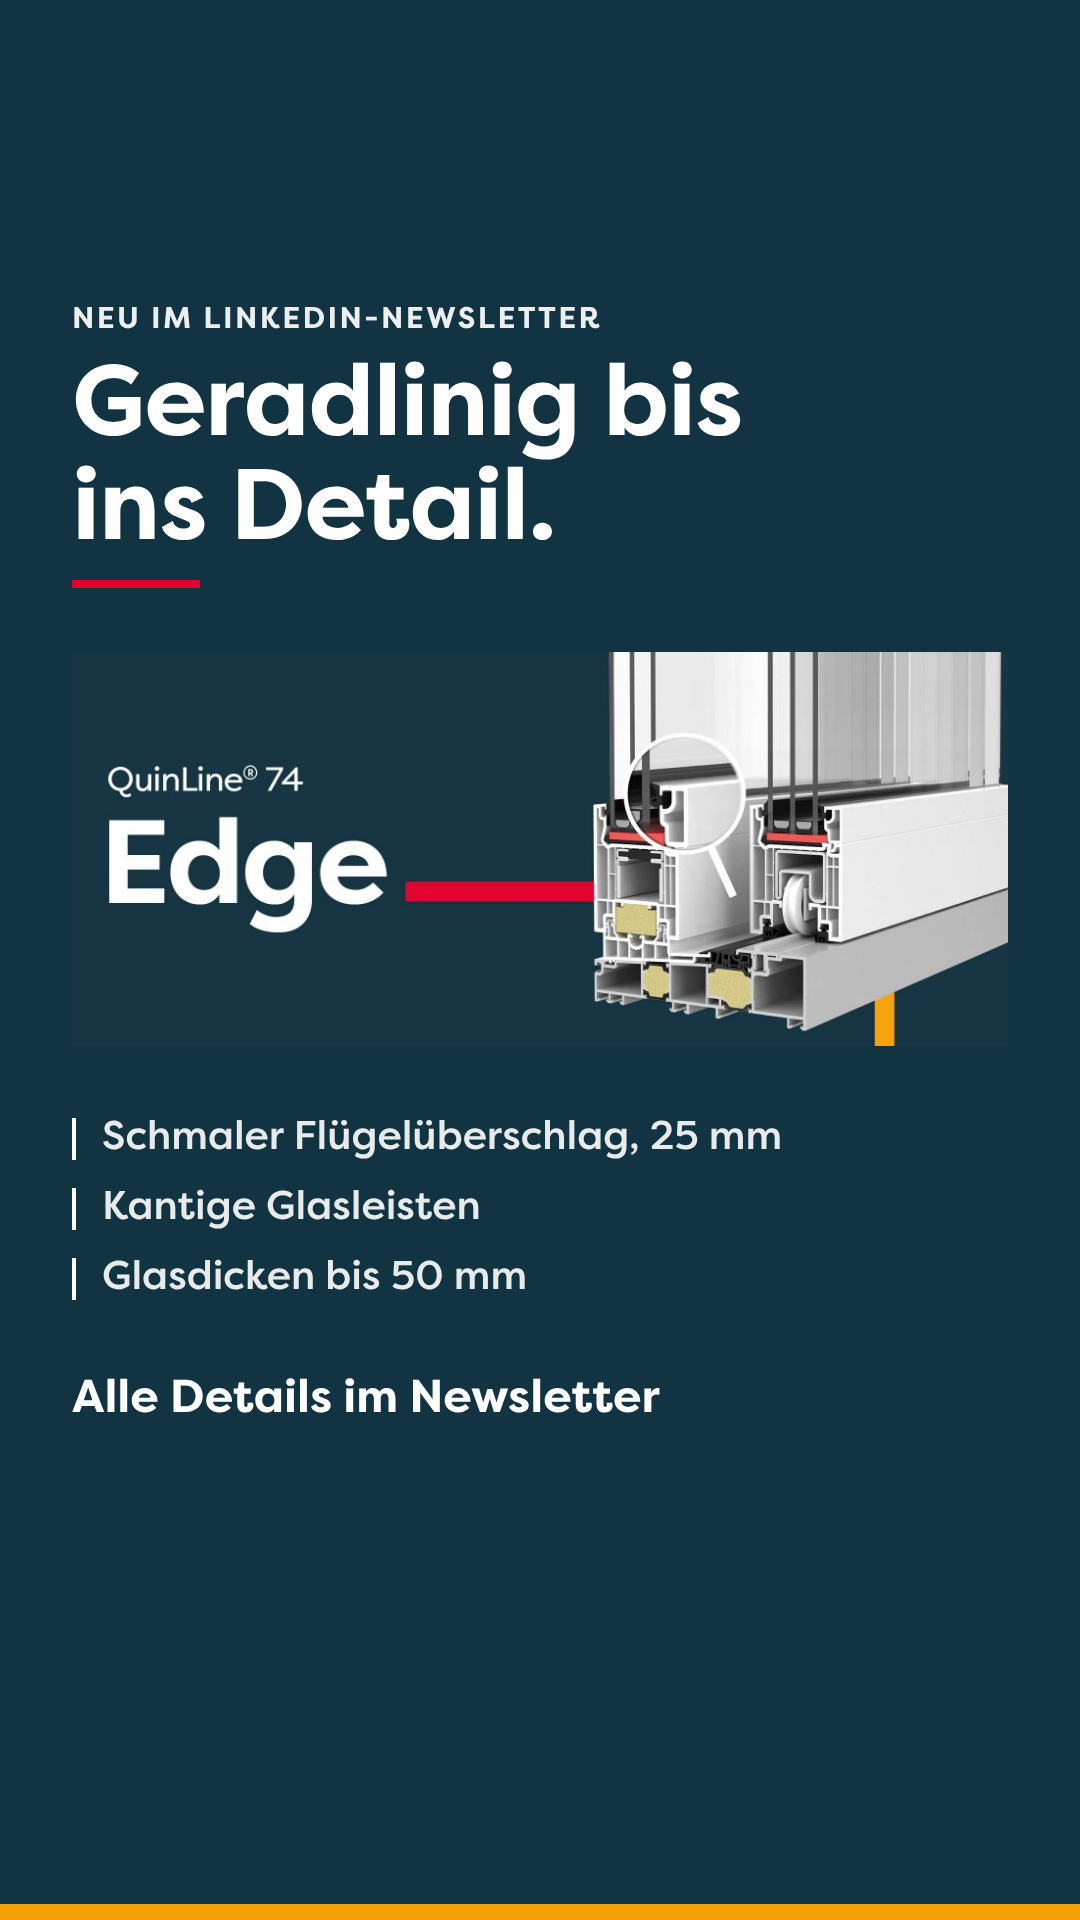
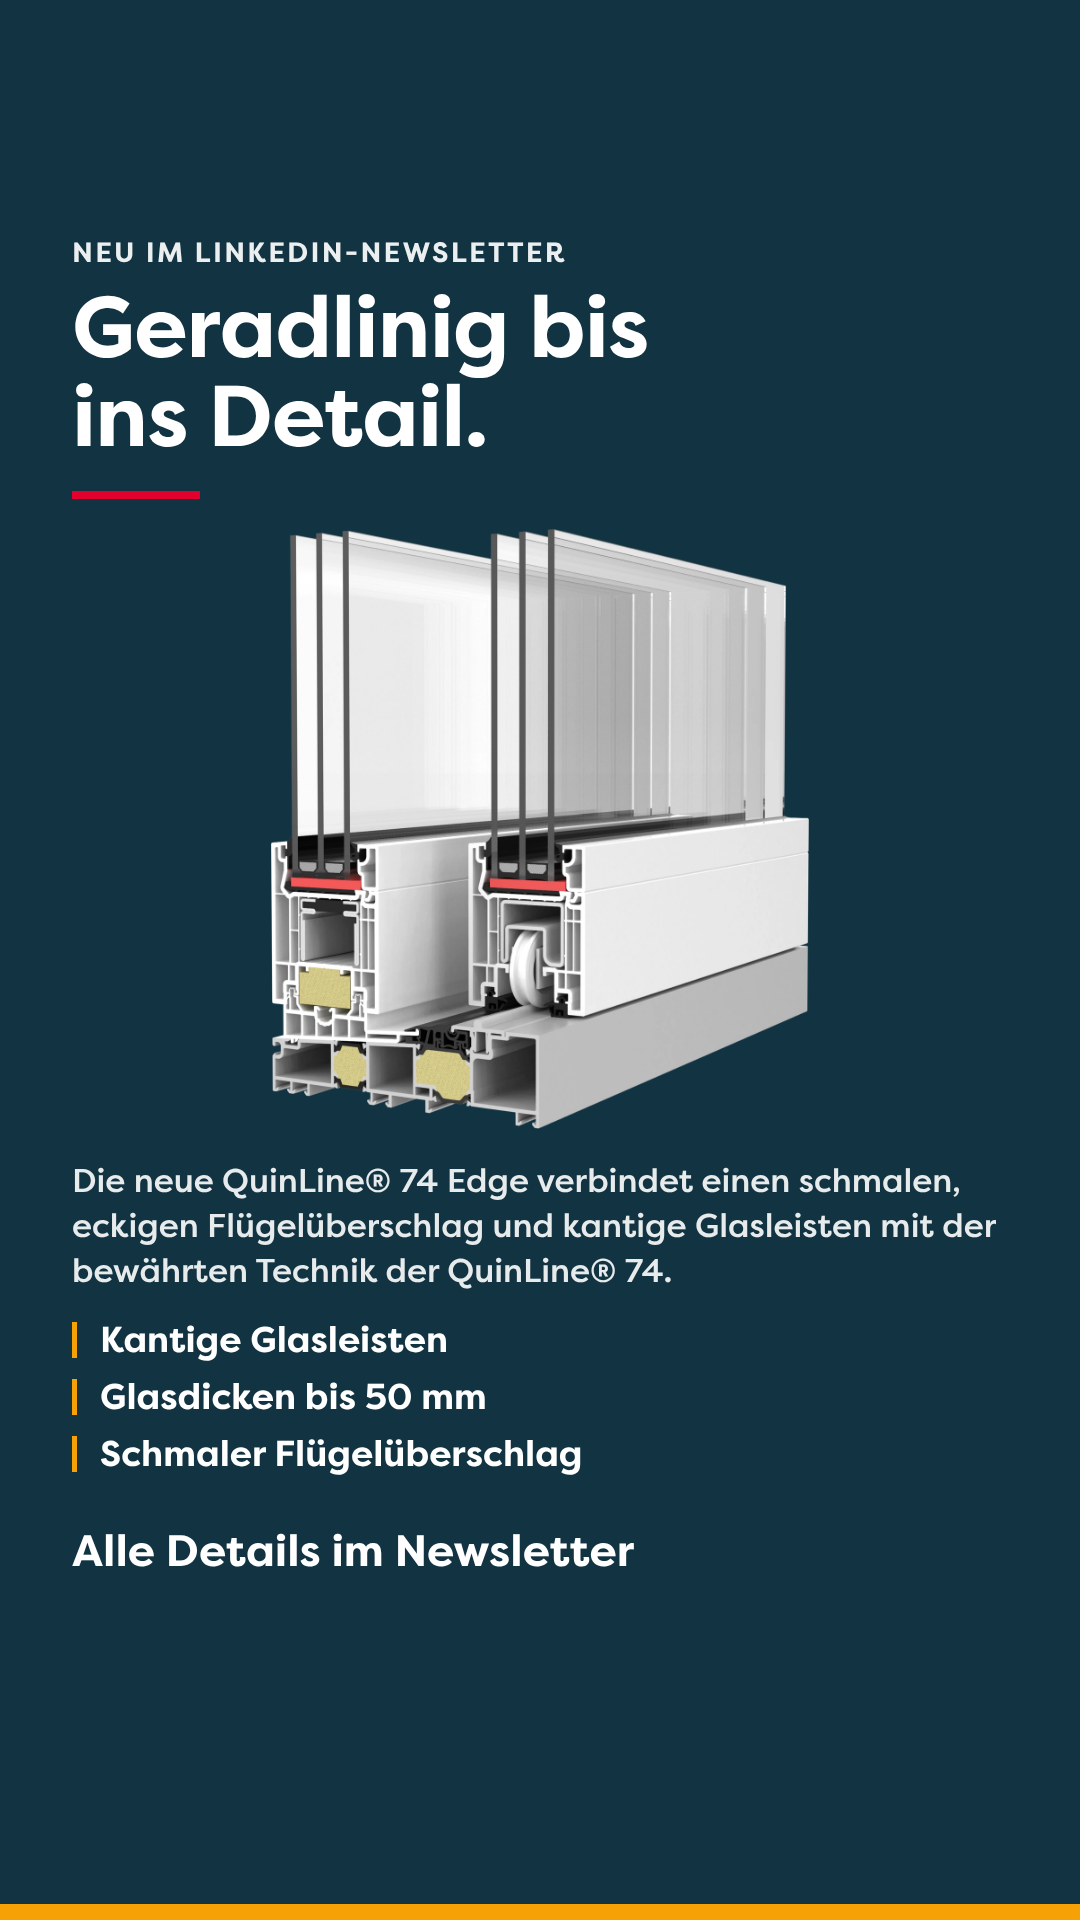
Instagram-Story Edge: vollständiges Rendering, Kurztext und drei Merkmale
Freigestelltes Rendering statt des oben abgeschnittenen Key Visuals,
Layout nach oben gerückt, nur der erste Satz als Text, darunter
Kantige Glasleisten, Glasdicken bis 50 mm, Schmaler Flügelüberschlag.

Claude-Session: https://claude.ai/code/session_01VKPZfVgBXYvpnS8mXiiVA7

Changed region(s): [[0.0611, 0.125, 0.9472, 0.8125]]

diff --git a/projects/newsletter-ql74-edge/source/instagram-story.html b/projects/newsletter-ql74-edge/source/instagram-story.html
@@ -13,31 +13,37 @@
 html,body{margin:0;padding:0}
 body{background:#555;font-family:"Filson Pro",Arial,sans-serif;-webkit-font-smoothing:antialiased}
 .story{position:relative;width:1080px;height:1920px;background:var(--blue);color:var(--white);overflow:hidden}
-.eyebrow{position:absolute;left:72px;top:300px;font-weight:700;font-size:30px;letter-spacing:.08em;text-transform:uppercase;opacity:.92}
-h1{position:absolute;left:72px;top:350px;margin:0;font-weight:700;font-size:100px;line-height:1.04;letter-spacing:-.01em}
-.rule{position:absolute;left:72px;top:580px;width:128px;height:8px;background:var(--red)}
-/* Key Visual ohne den weißen Streifen mit Logo: nur der blaue Teil (unten bündig zugeschnitten) */
-.card{position:absolute;left:72px;top:652px;width:936px;height:394px;display:block;object-fit:cover;object-position:bottom}
-ul{position:absolute;left:72px;top:1110px;margin:0;padding:0;list-style:none}
-li{position:relative;padding-left:30px;margin:0 0 18px;font-weight:500;font-size:40px;line-height:1.3;color:var(--soft)}
-li::before{content:"";position:absolute;left:0;top:.2em;width:4px;height:1.05em;background:var(--white)}
-.cta{position:absolute;left:72px;top:1370px;font-weight:700;font-size:46px;line-height:1.2}
+.content{position:absolute;left:72px;right:72px;top:236px}
+.eyebrow{font-weight:700;font-size:28px;letter-spacing:.08em;text-transform:uppercase;opacity:.92}
+h1{margin:14px 0 0;font-weight:700;font-size:86px;line-height:1.04;letter-spacing:-.01em}
+.rule{width:128px;height:8px;margin-top:28px;background:var(--red)}
+/* Rendering freigestellt (transparenter Hintergrund), vollständig sichtbar */
+.render{display:block;height:var(--render-h,600px);width:auto;margin:30px auto 0}
+.text{margin:30px 0 0;font-weight:500;font-size:33px;line-height:1.36;color:var(--soft)}
+ul{margin:24px 0 0;padding:0;list-style:none}
+li{position:relative;padding-left:28px;margin:0 0 12px;font-weight:700;font-size:36px;line-height:1.25;color:var(--white)}
+li:last-child{margin-bottom:0}
+li::before{content:"";position:absolute;left:0;top:.12em;width:5px;height:1em;background:var(--yellow)}
+.cta{position:absolute;left:72px;top:1526px;font-weight:700;font-size:44px;line-height:1.2}
 .bar{position:absolute;left:0;right:0;bottom:0;height:16px;background:var(--yellow)}
 </style>
 </head>
 <body>
 <div class="story" id="story">
-  <div class="eyebrow">Neu im LinkedIn-Newsletter</div>
-  <h1>Geradlinig bis<br>ins Detail.</h1>
-  <div class="rule"></div>
-  <img class="card" src="../renders/images/keyvisual-ql74-edge.jpg" alt="QuinLine® 74 Edge">
-  <ul>
-    <li>Schmaler Flügelüberschlag, 25 mm</li>
-    <li>Kantige Glasleisten</li>
-    <li>Glasdicken bis 50 mm</li>
-  </ul>
+  <div class="content">
+    <div class="eyebrow">Neu im LinkedIn-Newsletter</div>
+    <h1>Geradlinig bis<br>ins Detail.</h1>
+    <div class="rule"></div>
+    <img class="render" src="../renders/images/render-ql74-edge-freigestellt.png" alt="Schnittmodell der QuinLine® 74 Edge">
+    <p class="text">Die neue QuinLine®&nbsp;74 Edge verbindet einen schmalen, eckigen Flügelüberschlag und kantige Glasleisten mit der bewährten Technik der QuinLine®&nbsp;74.</p>
+    <ul>
+      <li>Kantige Glasleisten</li>
+      <li>Glasdicken bis 50&nbsp;mm</li>
+      <li>Schmaler Flügelüberschlag</li>
+    </ul>
+  </div>
   <div class="cta">Alle Details im Newsletter</div>
-  <!-- frei für den Link-Sticker: ca. y 1450–1680 -->
+  <!-- frei für den Link-Sticker: ca. y 1600–1700 -->
   <div class="bar"></div>
 </div>
 </body>
